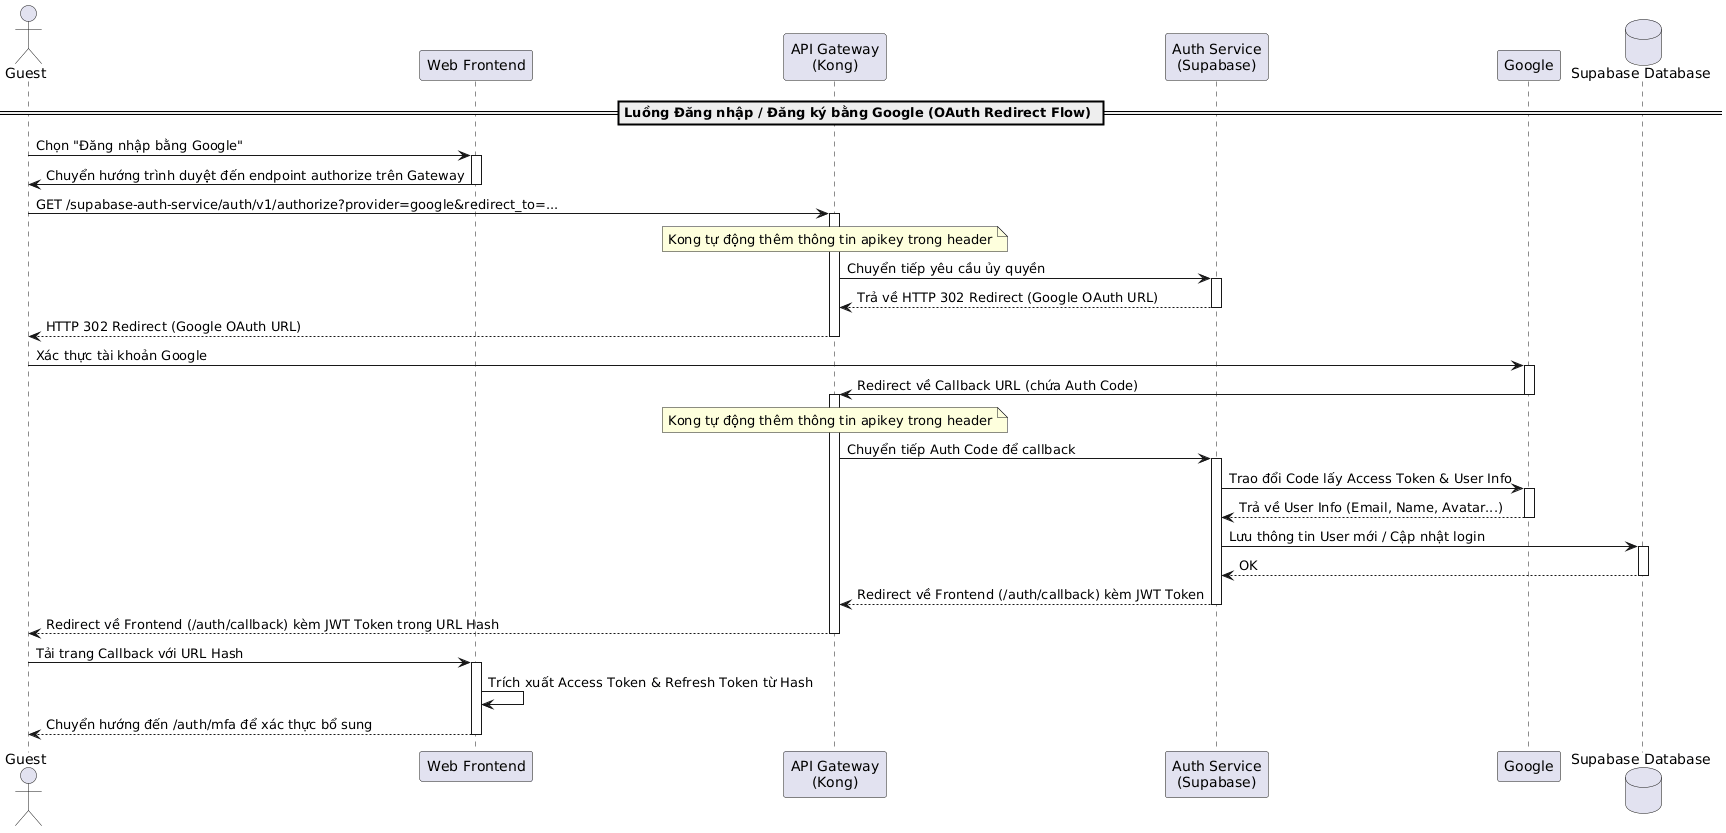
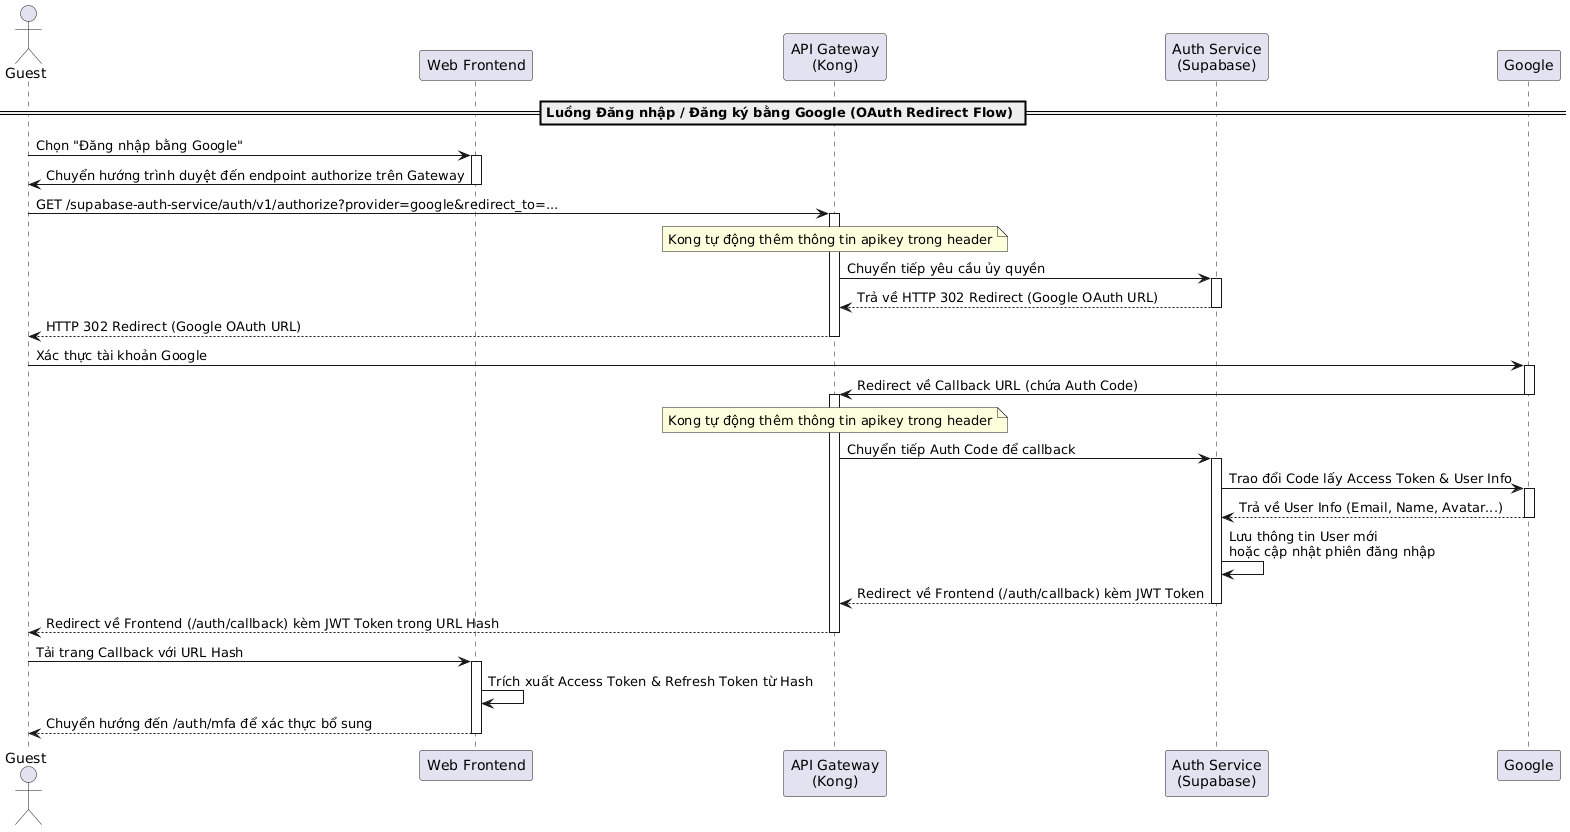
1

diff --git a/latex/contents/Sequence/UML-Sequence-GuestGoogleOAuthLogin.tex b/latex/contents/Sequence/UML-Sequence-GuestGoogleOAuthLogin.tex
@@ -24,7 +24,6 @@ Guest & Actor & Khách vãng lai thực hiện đăng nhập hoặc đăng ký t
 Web Frontend & Component & Giao diện web Next.js. \\ \hline %%%% Component & Giao diện ứng dụng tiếp nhận tương tác và hiển thị trạng thái đăng nhập. \\ \hline
 API Gateway (Kong) & Component & Cổng API chuyển tiếp các yêu cầu API. \\ \hline
 Auth Service (Supabase) & Microservice & Dịch vụ xác thực xử lý đăng ký, đăng nhập, giao tiếp Google và cấp phát JWT. \\ \hline
-Supabase Database & Database & Lưu trữ dữ liệu người dùng (bảng users). \\ \hline
 Google & External Service & Dịch vụ xác thực bên thứ ba của Google (OAuth 2.0). \\ \hline
 \end{tabular}
 \caption{Các thành phần tham gia luồng Đăng nhập / Đăng ký bằng Google}
@@ -42,7 +41,7 @@ Trình duyệt của Guest tự động chuyển hướng sang Google để ngư
 \item Sau khi xác thực thành công,
 Google chuyển hướng trình duyệt quay lại địa chỉ Callback của Auth Service thông qua API Gateway (Kong) cùng với mã xác thực (Auth Code).
 \item Auth Service trực tiếp trao đổi Auth Code
-với Google để nhận thông tin người dùng, lưu/cập nhật dữ liệu vào Database, sinh cặp mã JWT Token,
+với Google để nhận thông tin người dùng, tự thực hiện lưu thông tin User mới hoặc cập nhật phiên đăng nhập, sinh cặp mã JWT Token,
 sau đó thực hiện Redirect 302 trình duyệt quay lại địa chỉ Callback của Web Frontend (\texttt{/auth/callback}) chứa Access Token
 và Refresh Token trong phần URL Hash.
 \item Web Frontend trích xuất các mã token từ URL Hash, lưu trữ cục bộ và chuyển Guest sang \texttt{/auth/mfa}
